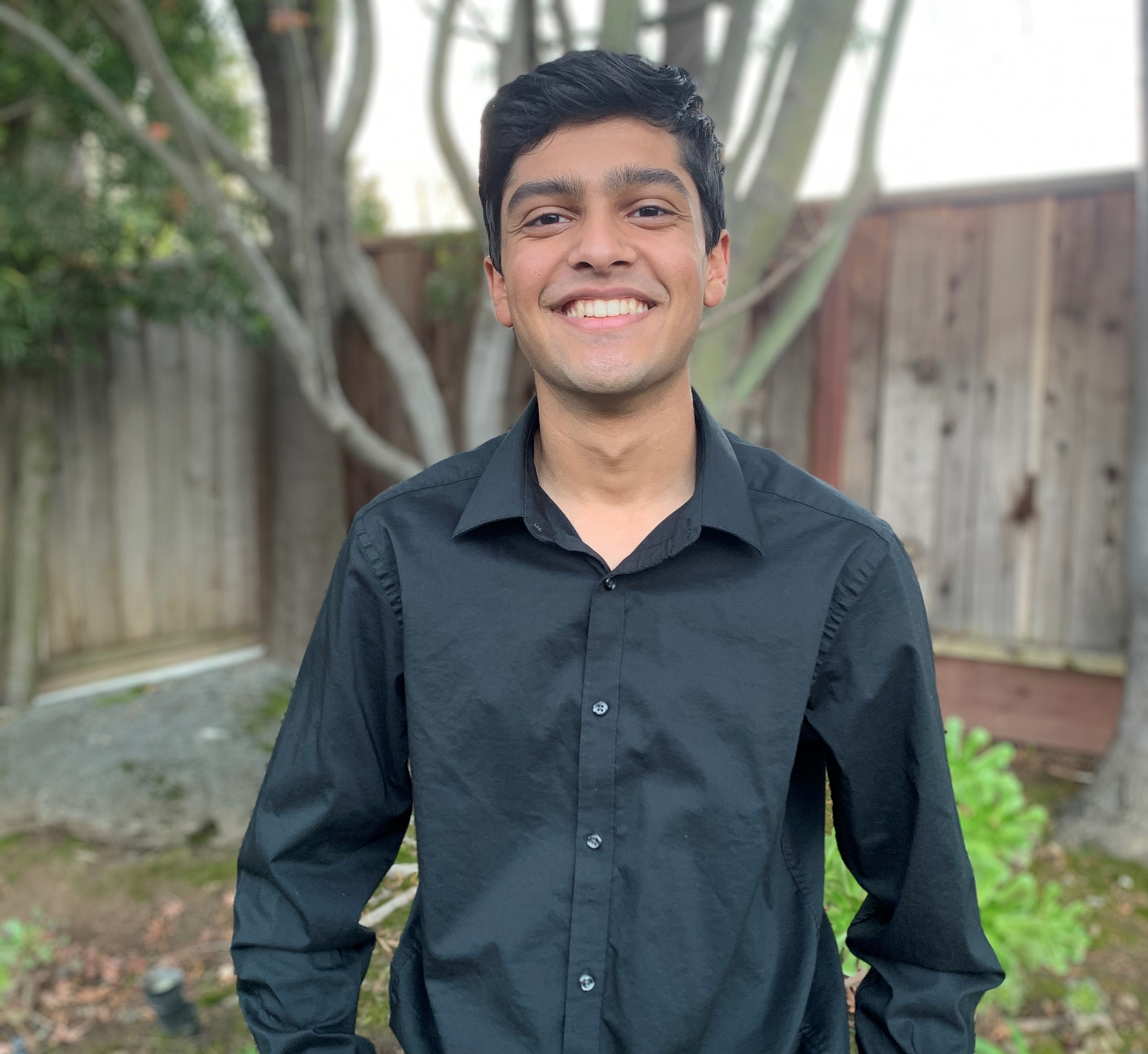
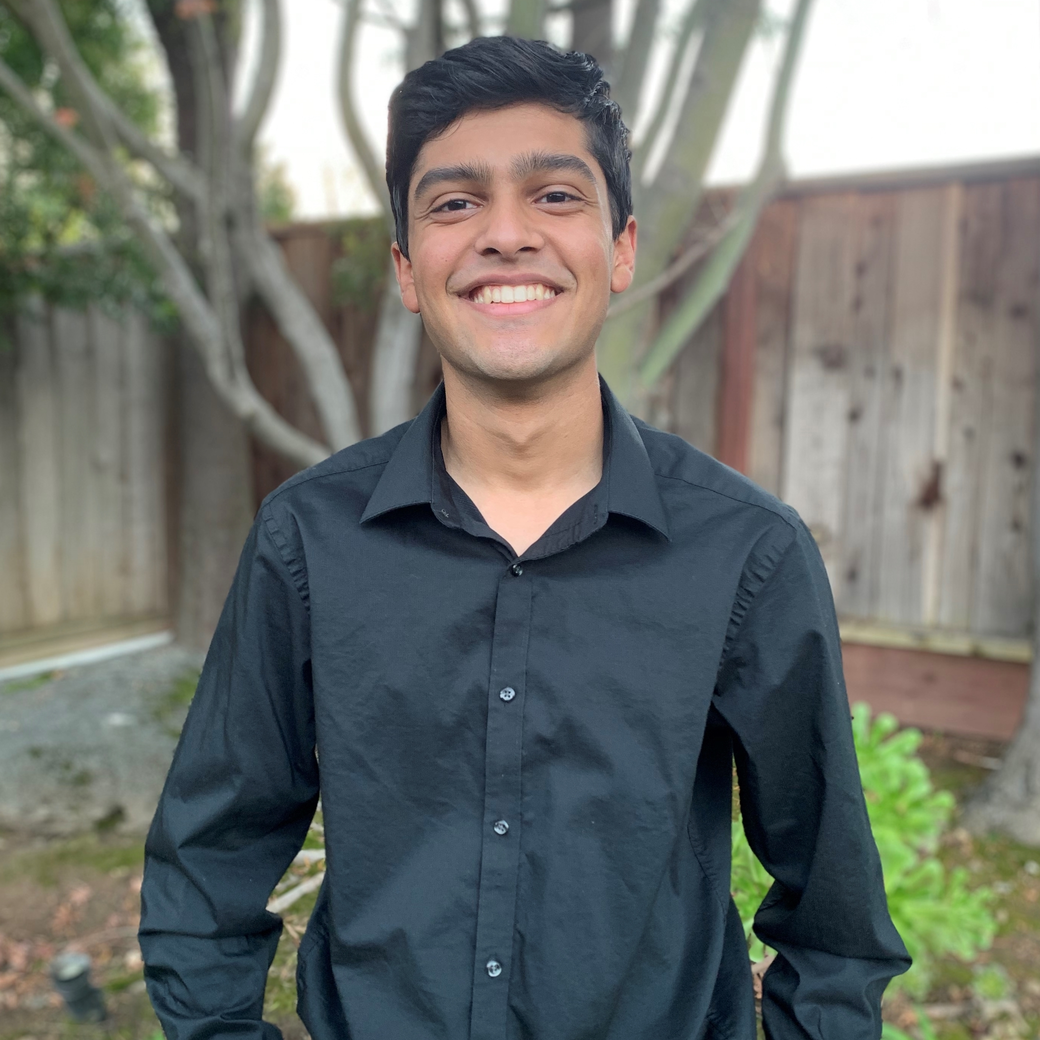
Fix founder card and resize couple headshots to be square

diff --git a/src/components/WorkWithUs/ClientLogos.js b/src/components/WorkWithUs/ClientLogos.js
@@ -20,16 +20,15 @@ export const currentClients = [
 ];
 
 export const pastClients = [
+    {logo: tripadvisor1, link: "https://www.tripadvisor.com/"},
     {logo: mcbride, link: "https://www.mcbridesisters.com/"},
     {logo: lovo, link: "https://www.lovo.ai/"},
     {logo: paladin, link: "https://paladindrones.io/"},
     {logo: perkville, link: "https://www.perkville.com/"},
     {logo: bedrock, link: "https://www.bedrockanalytics.com/"},
     {logo: calfit, link: "https://www.californiafamilyfitness.com/"},
-    {logo: tripadvisor1, link: "https://www.tripadvisor.com/"},
     {logo: clearskye, link: "https://clearskye.com/"},
     {logo: karbon, link: "https://karbonhq.com/"},
     {logo: seti, link: "https://www.seti.org/"},
     {logo: vivensity, link: "https://www.vivensity.com/"}
-
 ];

diff --git a/src/components/AboutUs/OfficerSection/EducationCards.js b/src/components/AboutUs/OfficerSection/EducationCards.js
@@ -2,6 +2,7 @@ import React from "react"
 import styled from "styled-components"
 import OfficerCard from "./OfficerSectionComponents/OfficerCard"
 import {educationArr} from './OfficerSectionComponents/OfficerHeadshots';
+import {founderArr} from './OfficerSectionComponents/OfficerHeadshots';
 
 const CardContainer = styled.div`
     margin: 50px 50px 50px 50px;
@@ -51,7 +52,7 @@ const EducationCards = () => (
             />
             <OfficerCard className="item-4"
                 name="Joshua Chandiramani"
-                photoLink={educationArr[3]}
+                photoLink={educationArr[4]}
                 role="Head E-Learning Developer"
                 interest1="Tennis"
                 interest2= "Exploring Berkeley"

diff --git a/src/components/Courses/OnlineCourse/OCDetailsCard.js b/src/components/Courses/OnlineCourse/OCDetailsCard.js
@@ -93,7 +93,7 @@ const OCDetailsCard = () => {
                         <Details style={{textDecorationColor: "#231f20"}}>Syllabus</Details>
                     </a>
                     <a href="/contactus" rel="noreferrer" target="_blank">
-                        <Details style={{textDecorationColor: "#231f20"}}>Available Fall 2021</Details>
+                        <Details style={{textDecorationColor: "#231f20"}}>Available Fall 2022</Details>
                     </a>
                 </InnerContainer>
             </OuterContainer>

diff --git a/src/components/AboutUs/OfficerSection/OfficerSectionComponents/OfficerCard.js b/src/components/AboutUs/OfficerSection/OfficerSectionComponents/OfficerCard.js
@@ -18,7 +18,7 @@ const Container = styled.div`
 
 const Photo = styled.img`
     border-radius: 5px;
-    height: 200px;
+    min-height: 200px;
 `
 
 const LinkedIn = styled.img`
